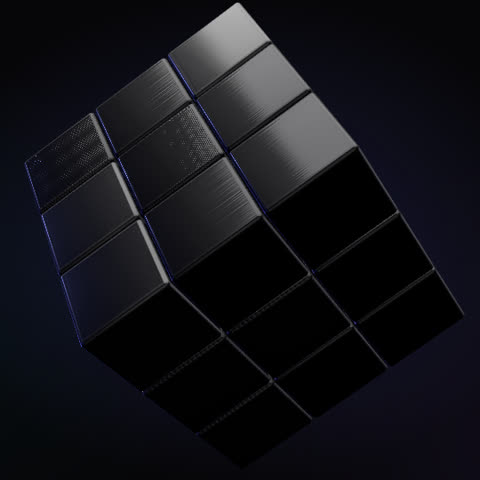
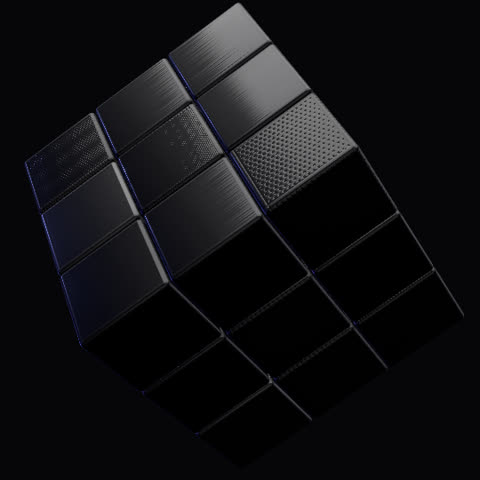
builderz.shop : cube vidéo mobile fondu dans le fond
Réenregistre la vidéo du cube sur fond uni #060608 (halo radial et orbes
masqués pendant la capture) et applique un masque radial doux sur le
<video> — plus de carré visible ni de différence de couleur avec le fond
mobile. Espacement cube/badge aéré (22px).

diff --git a/frontend/next-app/src/app/page.tsx b/frontend/next-app/src/app/page.tsx
@@ -240,12 +240,16 @@ export default function LandingPage() {
             <motion.div initial="hidden" animate="visible" variants={stagger(0.1)}>
               {/* cube en vidéo sur mobile (léger), WebGL sur desktop — comme resend.com */}
               {isMobile && (
-                <motion.div variants={fadeUp} style={{ display: "flex", justifyContent: "center", marginBottom: 8 }}>
+                <motion.div variants={fadeUp} style={{ display: "flex", justifyContent: "center", marginBottom: 22 }}>
                   <video
                     autoPlay loop muted playsInline aria-hidden="true"
                     poster="/cube-poster.jpg" src="/cube.mp4"
-                    width={200} height={200}
-                    style={{ width: 200, height: 200, objectFit: "cover", display: "block" }}
+                    width={210} height={210}
+                    style={{
+                      width: 210, height: 210, objectFit: "cover", display: "block",
+                      WebkitMaskImage: "radial-gradient(closest-side, #000 72%, transparent 100%)",
+                      maskImage: "radial-gradient(closest-side, #000 72%, transparent 100%)",
+                    }}
                   />
                 </motion.div>
               )}